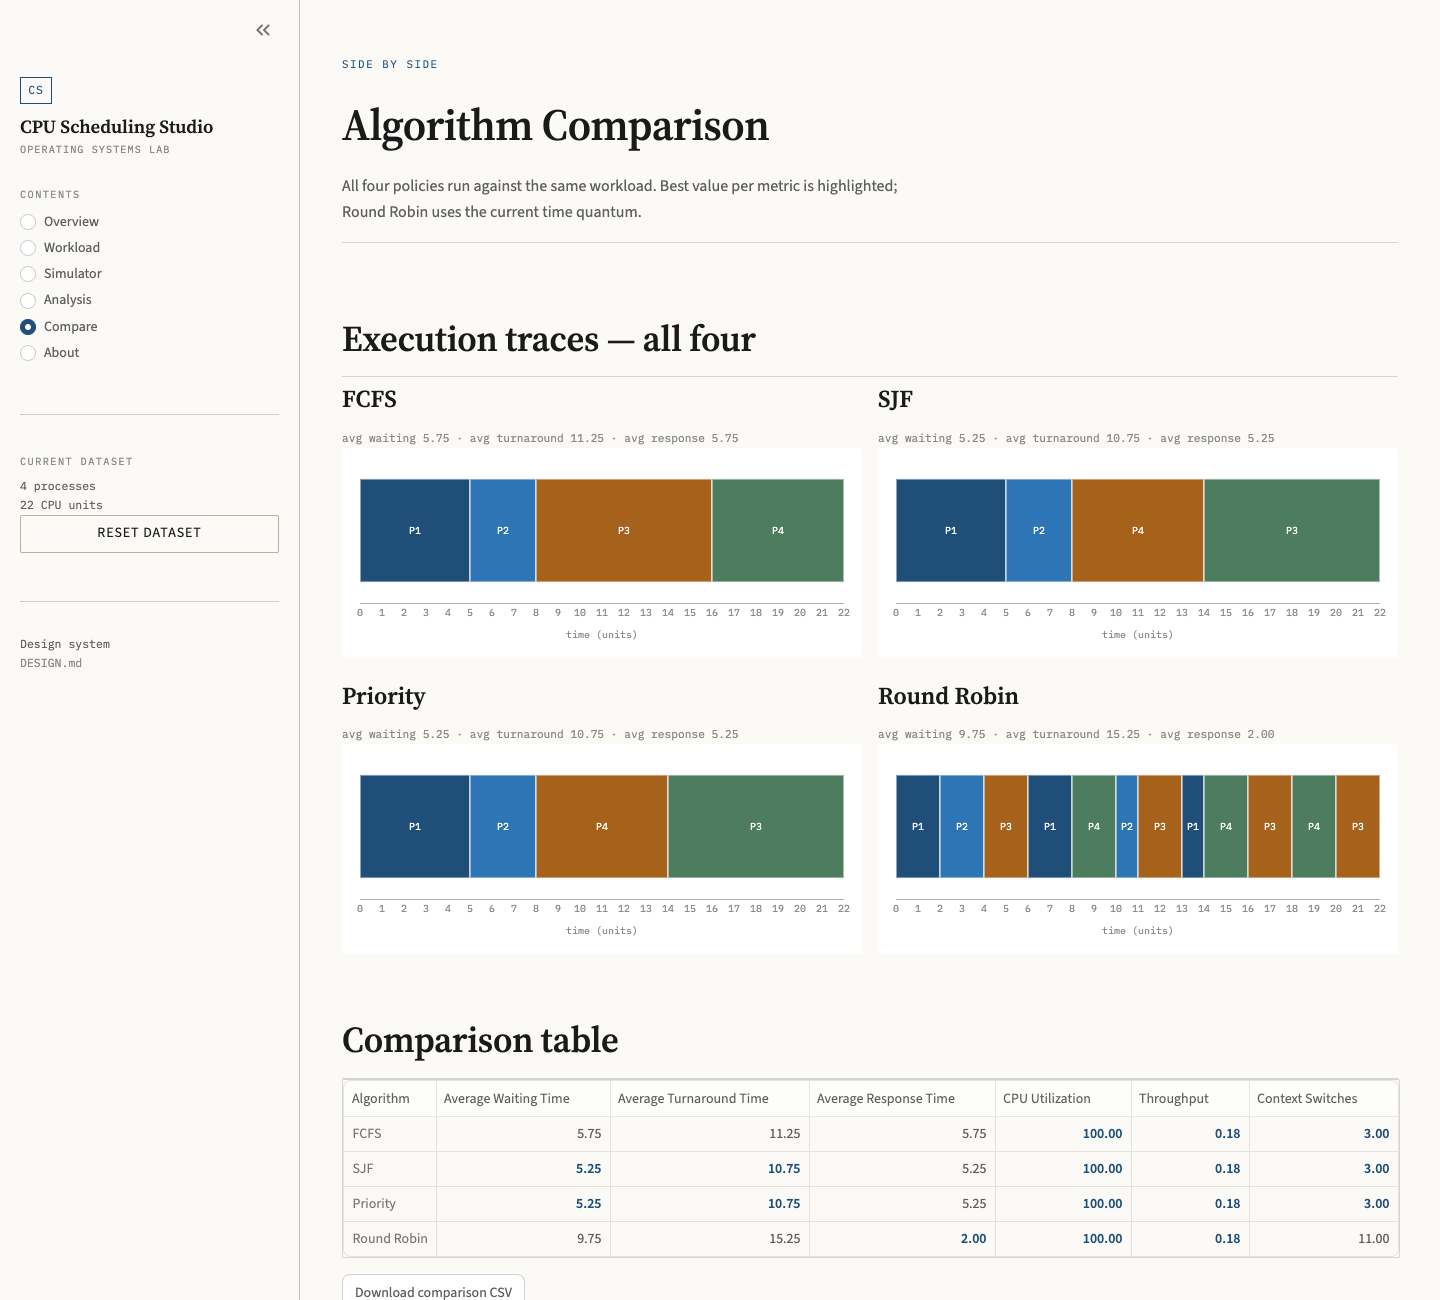
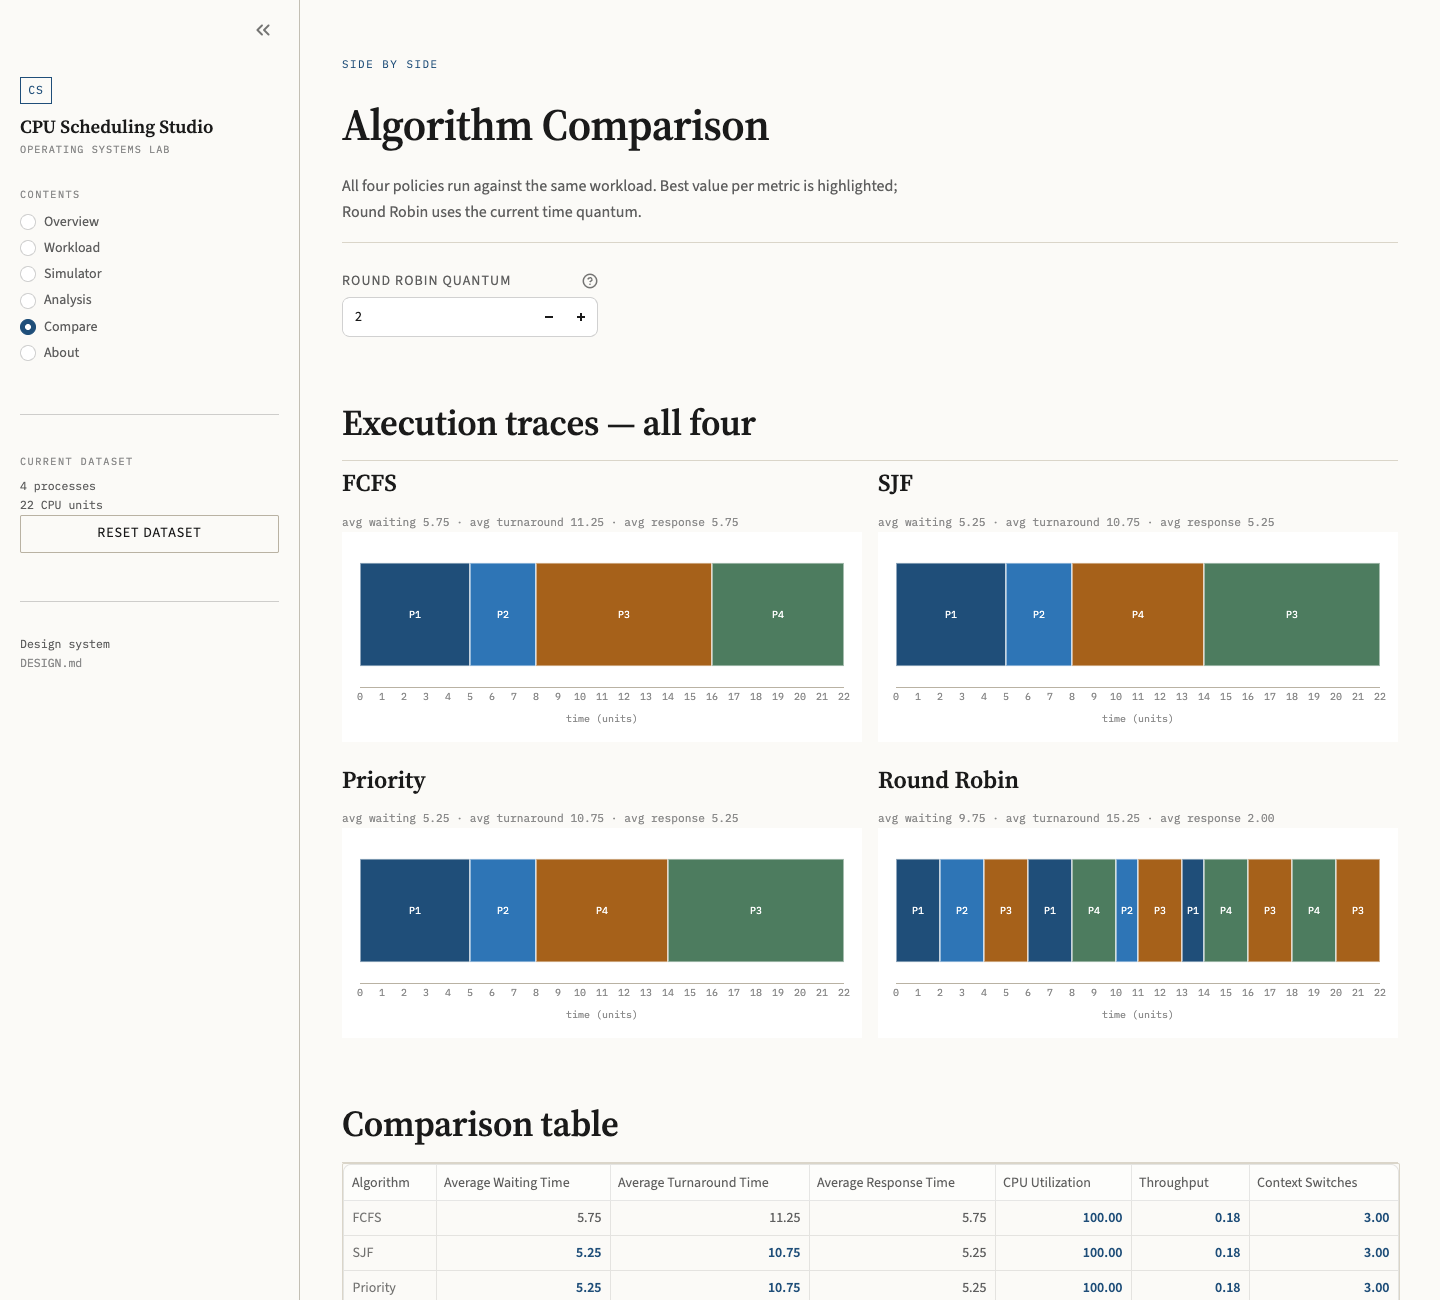
Fix stale editor state and expose quantum on Compare

diff --git a/app.py b/app.py
@@ -192,6 +192,8 @@ if "page" not in st.session_state:
     st.session_state.page = "Overview"
 if "show_all" not in st.session_state:
     st.session_state.show_all = False
+if "workload_rev" not in st.session_state:
+    st.session_state.workload_rev = 0
 
 # ----------------------------------------------------------------------------
 # Helpers
@@ -388,7 +390,7 @@ def process_editor(key="process_editor", heading="## Process table"):
         num_rows="dynamic",
         width="stretch",
         hide_index=True,
-        key=key,
+        key=f"{key}_{st.session_state.workload_rev}",
         column_config={
             "Process": st.column_config.TextColumn(required=True),
             "Arrival Time": st.column_config.NumberColumn(min_value=0, step=1, required=True),
@@ -409,6 +411,7 @@ def process_editor(key="process_editor", heading="## Process table"):
                 validate(records)
                 st.session_state.processes = records
                 st.session_state.show_all = True
+                st.session_state.workload_rev += 1
                 st.success(
                     f"Applied {len(records)} processes. All results now use the new values."
                 )
@@ -454,6 +457,7 @@ with st.sidebar:
     )
     if st.button("Reset dataset", width="stretch"):
         st.session_state.processes = SAMPLES["Basic"]
+        st.session_state.workload_rev += 1
         st.rerun()
 
     st.markdown("---")
@@ -545,6 +549,7 @@ elif page == "Workload":
                     validate(records)
                     st.session_state.processes = records
                     st.session_state.show_all = True
+                    st.session_state.workload_rev += 1
                     st.success(f"Imported {len(records)} processes.")
             except Exception as exc:
                 st.error(str(exc))
@@ -554,6 +559,7 @@ elif page == "Workload":
         sample = st.selectbox("Sample dataset", list(SAMPLES))
         if st.button("Load sample", width="stretch"):
             st.session_state.processes = [dict(p) for p in SAMPLES[sample]]
+            st.session_state.workload_rev += 1
             st.rerun()
     with b:
         count = st.number_input("Random count", min_value=1, max_value=20, value=5, step=1)
@@ -567,6 +573,7 @@ elif page == "Workload":
                 }
                 for i in range(int(count))
             ]
+            st.session_state.workload_rev += 1
             st.rerun()
     with c:
         if st.button("Add process", width="stretch"):
@@ -577,9 +584,11 @@ elif page == "Workload":
             st.session_state.processes.append(
                 {"Process": f"P{n}", "Arrival Time": 0, "Burst Time": 1, "Priority": 1}
             )
+            st.session_state.workload_rev += 1
             st.rerun()
         if st.button("Clear all", width="stretch"):
             st.session_state.processes = []
+            st.session_state.workload_rev += 1
             st.rerun()
 
     process_editor()
@@ -740,6 +749,16 @@ elif page == "Compare":
         "All four policies run against the same workload. Best value per metric is "
         "highlighted; Round Robin uses the current time quantum.",
     )
+
+    q1, q2 = st.columns([1, 3])
+    with q1:
+        st.session_state.quantum = st.number_input(
+            "Round Robin quantum",
+            min_value=1,
+            max_value=100,
+            value=int(st.session_state.quantum),
+            help="Applied to the Round Robin trace and all comparison metrics.",
+        )
 
     try:
         validate(st.session_state.processes)
